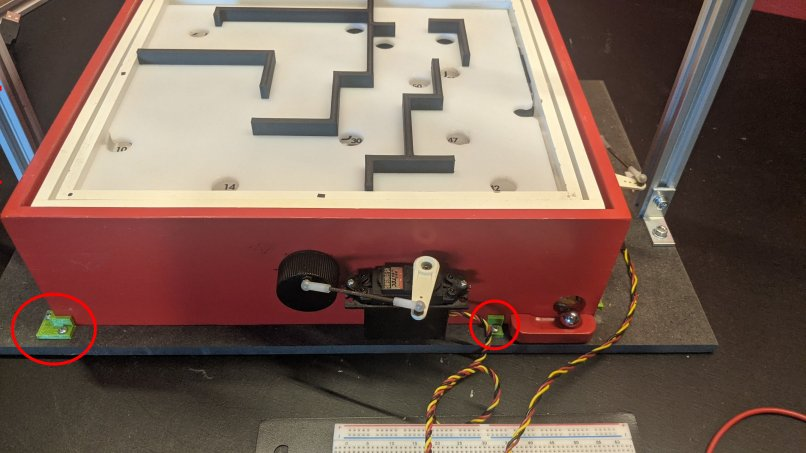
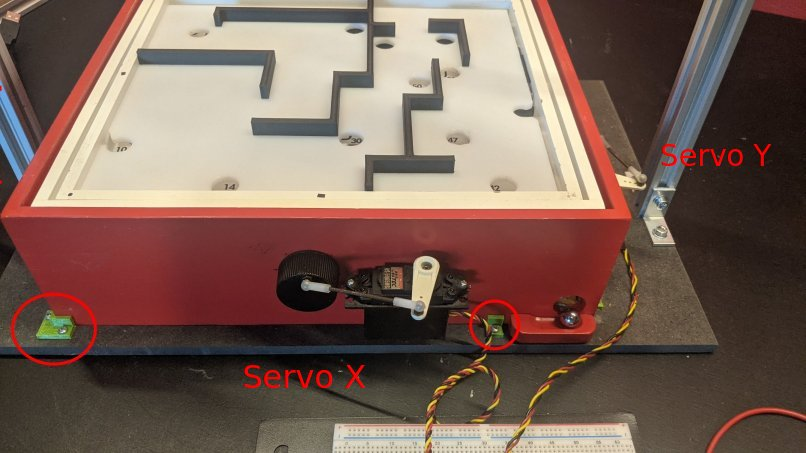
complete readme

Changed region(s): [[0.2792, 0.8035, 0.4653, 0.8653], [0.8065, 0.3091, 0.9615, 0.3709]]

diff --git a/ScoreMatrixGenerator.py b/ScoreMatrixGenerator.py
@@ -99,7 +99,7 @@ def gen_neg_gradient_field():
 	smooth_pre = score_map.astype(np.float32)
 	smooth_pre[smooth_pre == 0] = np.max(smooth_pre)
 	smooth_cost = gaussian_filter(smooth_pre, sigma=3)
-	smooth_cost[score_map == 0] = np.nan  # TODO?
+	smooth_cost[score_map == 0] = np.nan
 
 	dy, dx = np.gradient(smooth_cost, edge_order=2)
 
@@ -116,7 +116,7 @@ def gen_neg_gradient_field():
 def main():
 	score_map = labyrinth_score()
 
-	# np.savetxt("/home/gawain/Documents/PhysicSimulation/score4.csv", score_map, delimiter=",")
+	# np.savetxt("score3.csv", score_map, delimiter=",")
 
 	Y, X = np.mgrid[0:score_map.shape[0], 0:score_map.shape[1]]
 
@@ -130,13 +130,13 @@ def main():
 	ax.set_zlabel("Cost value")
 	ax.set_title("Cost map")
 
-	# fig2, ax2 = plt.subplots()
-	# cost_plt = ax2.imshow(score_map_nan, cmap="magma", origin="lower")
-	# ax2.set_xlabel("Position X [mm]")
-	# ax2.set_ylabel("Position Y [mm]")
-	# ax2.set_title("Cost map")
-	# fig2.colorbar(cost_plt, label="Cost value", ax=ax2)
-#
+	fig2, ax2 = plt.subplots()
+	cost_plt = ax2.imshow(score_map_nan, cmap="magma", origin="lower")
+	ax2.set_xlabel("Position X [mm]")
+	ax2.set_ylabel("Position Y [mm]")
+	ax2.set_title("Cost map")
+	fig2.colorbar(cost_plt, label="Cost value", ax=ax2)
+
 	fig3, ax3 = plt.subplots()
 	ax3.set_title("Smoothed")
 	smooth_pre = score_map.astype(np.float32)
@@ -160,7 +160,6 @@ def main():
 	fig_g, ax_g = plt.subplots()
 	ax_g.quiver(X, Y, dx, dy, scale=1, scale_units='xy')
 
-	# plt.savefig("PlotData/images/3dcosts.pdf")
 	plt.show()
 
 

diff --git a/Params.py b/Params.py
@@ -15,7 +15,7 @@ PROCESSING_X = X_EDGE // 2
 PROCESSING_Y = Y_EDGE // 2
 
 
-X_CONTROL_SIGNAL_HORIZONTAL = 80
+X_CONTROL_SIGNAL_HORIZONTAL = 83
 Y_CONTROL_SIGNAL_HORIZONTAL = 87
 
 BOARD_LENGTH_X = 275
@@ -26,12 +26,13 @@ CORNER_MASK_MIN_Y, CORNER_MASK_MAX_Y = 5, 250
 CORNER_ANGLE_MAX_DEVIATION = 0.1
 LENGTH_MAX_DEVIATION = 0.1
 
+# Platform corners image coordinates from distortion free image
 CORNER_BL = (42, 238)
 CORNER_BR = (306, 236)
 CORNER_TR = (305, 18)
 CORNER_TL = (41, 17)
 
-# Perspective corners
+# Perspective corners image coordinates from unaltered camera image
 P_CORNER_BL = (35, 242)
 P_CORNER_BR = (312, 243)
 P_CORNER_TR = (311, 9)
@@ -65,18 +66,17 @@ dt = 1 / 50
 
 STEPS_DEAD_TIME = 2
 
+# control horizon in number of iterations, controller runs at 50 Hz by default
 N = 50
+
 Q = 1
 R = 5 * 1000
 
-
-DISTURBANCE_APPROXIMATION_PROPORTIONAL = 0.0
+# integral gain for disturbance compensator
 DISTURBANCE_APPROXIMATION_INTEGRAL = 1
-DISTURBANCE_APPROXIMATION_DIFFERENTIAL = 0.0
 
 DISTURBANCE_INTEGRAL_CLIP = 0.1
 
-DIVERGENCE_PREVENTION_INTEGRAL = 0.05
 
 MAX_ITER = 5
 

diff --git a/README.md b/README.md
@@ -28,6 +28,8 @@ To run the project flash the Arduino code `ServoControl/ServoControl.ino` to a A
 
 ![](ArduinoServoConnection.png)
 
+The picture below shows which servo is which.
+
 In `Controller.py` set the Arduino port on line 22.
 
 Place the labyrinth against the mounting brackets.
@@ -41,6 +43,12 @@ python Controller.py
 By default, the linear model predictive controller that is not aware of the walls in the labyrinth is executed.
 An automatically generated path through the custom build labyrinth top is loaded from a file.
 The labyrinth path can be changed by selecting a different path controllers in `Controller.py` on lines 54-56.
+Different labyrinths work best with different control horizon and integral gain for the disturbance compensator, these can be changed in `Params.py` on line 70 and 78.
+
+To achieve good results, it is helpful if the labyrinth platform is levelled.
+The easiest way to level the labyrinth platform is to underlay on one side of the labyrinth until it is level.
+Alternatively servo angles at which the platform should be level can be adjusted in `Params.py` on line 8-9.
+Script `test/Servo-Test.py` can be used to find offset angles.
 
 To run the non-linear simulation-based model predictive controller the C++ simulation must be compiled.
 For this a cmake must be installed.
@@ -52,13 +60,50 @@ cd simulation/PhysicSimulation
 mkdir cmake-build-debug
 cd cmake-build-debug
 cmake ..
-cmake . --build --target PhysicSimulationLib
+cmake --build . --target PhysicSimulationLib
 ```
 Then in `Controller.py` on change the controller form `LinearMPC` to `SimulationController` by commenting line 59 and uncommenting line 60.
 Finally, execute this command in the projects root directory to run the controller
 ```bash
 python Controller.py
 ```
+
+If the camera or camera position is changed, recalibration is required.
+In addition, the image coordinates of the platform corner points must be adjusted in `Params.py` on lines 29-39.
+In the event of major changes, the areas of the markers must also be adjusted in `Params.py` on line  44-48.
+
+## Description of files:
+All scripts are expected to be run from the project root directory.
+
+- `analysis/*` collection of analysis tools
+- `Calibration/*` Arduino code and python script to calculate ratios between servo and platform angles.
+- `Controllers/Controllers.py` linear MPC implementation, non-linear MPC simulation integration
+- `helpers/ArduinoRTTMeasurement/*` tools to measure Arduino serial communication RTT
+- `HighLevelController/*` implementation of Strategic Planner with fixed path and auto path
+- `Labyrinth/*` implementation of auto path finding through labyrinth based on image (threshold on line 88 of `LabyrinthDetection.py` must be adapted based on brightness)
+- `Nets/*` [CueNet V2](https://github.com/FabianAmherd/Heatmap-based-Object-Detection-and-Tracking-with-a-Fully-Convolutional-Neural-Network) models and data recording, labeling and training scripts. 
+- `ServoControl/ServoControl.ino` Arduino code to control the servos
+- `simulation/SimulationInterface.py` interface for the C++ labyrinth simulation
+- `simulation/PhysicSimulation` C++ labyrinth simulation
+- `store/*` directory where data is stored, `index.csv` to keep track of stored data
+- `test/LabyrinthDetectionTest.py` test for auto path finding, captures image with DAVIS camera and runs labyrinth detection and path finding (threshold on line 88 of `Labyrinth/LabyrinthDetection.py` must be adapted based on brightness)
+- `test/PositionTracking.py` tool to test the ball position tracking in real time
+- `test/Servo-Test.py` simple tool to set platform angles, base code taken from [here](https://github.com/SensorsINI/Zhuoyi-Liang-Labyrinth/blob/main/servo_test.py).
+- `utils/*` different utility classes and functions
+- `camera_params.pkl`/`camera_params_full.pkl` camera parameters from camera calibration
+- `Controller.py` main program, uses strategy pattern to select path/controller implementation
+- `CueNetV2.py` [CueNet V2](https://github.com/FabianAmherd/Heatmap-based-Object-Detection-and-Tracking-with-a-Fully-Convolutional-Neural-Network) model implementation
+- `davis346_config.json` configuration for DAVIS camera
+- `Davis346Reader.py` script to be run in different process to capture frames and send them to other process with a pipe
+- `DisturbanceCompensator.py` implementation of the disturbance compensator.
+- `MPC.py` implementation of the MPC model for the linear model predictive controller
+- `Params.py` collection  of parameters for the controller
+- `path-test.py` tool to plot paths against real time camera image
+- `path*` collection of different paths
+- `Plotter.py` script to plot controller state in real time
+- `requirements.txt` packages required to run this project
+- `ScoreMatrixGenerator.py` tool to generate score array used by simulation to evaluate control signals
+- `StateDeviationPlot.py` state analysis tool
 
 ## Servo Control
 0 point is located on the bottom left of the labyrinth.
